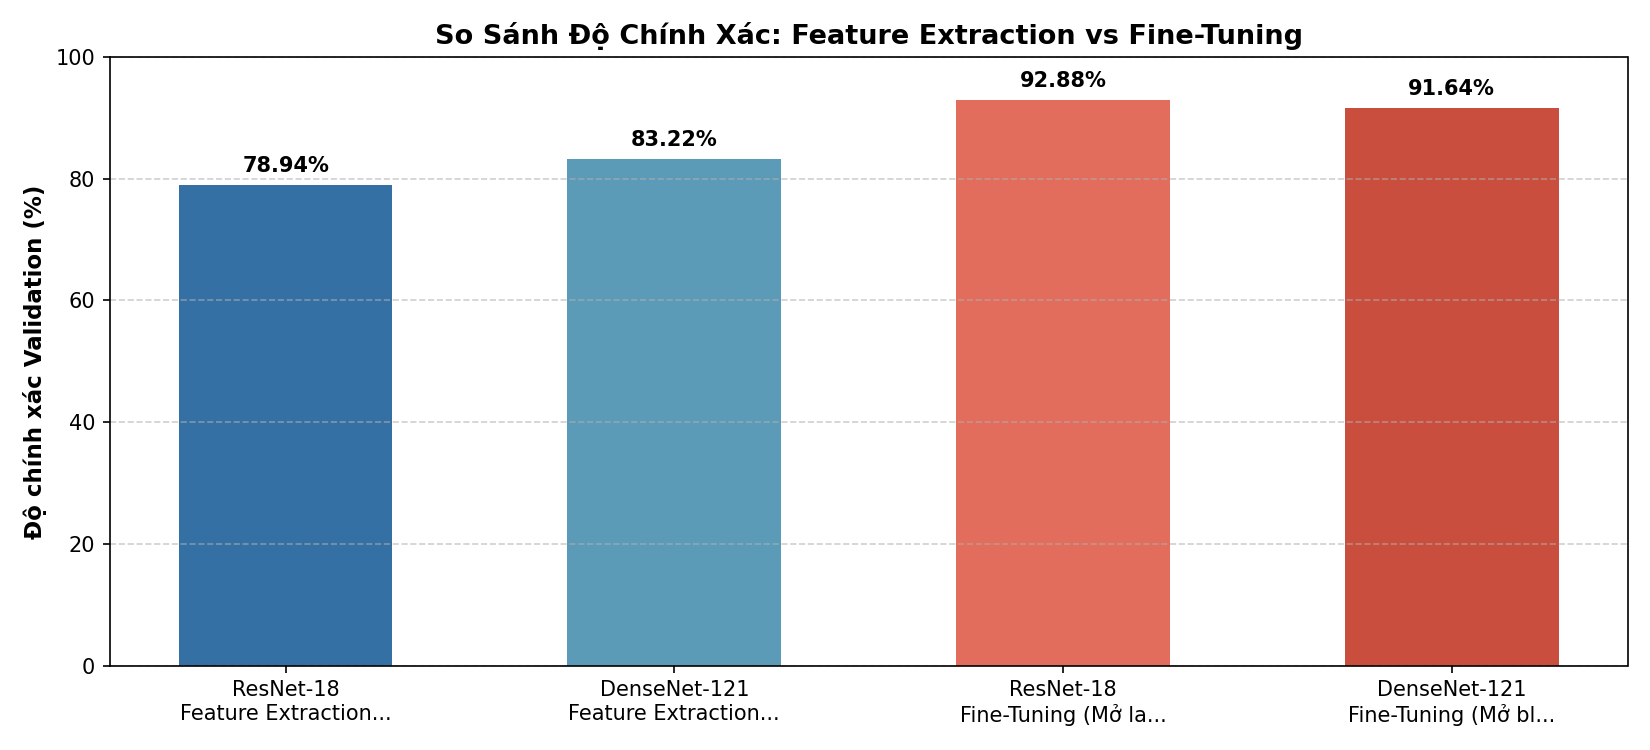
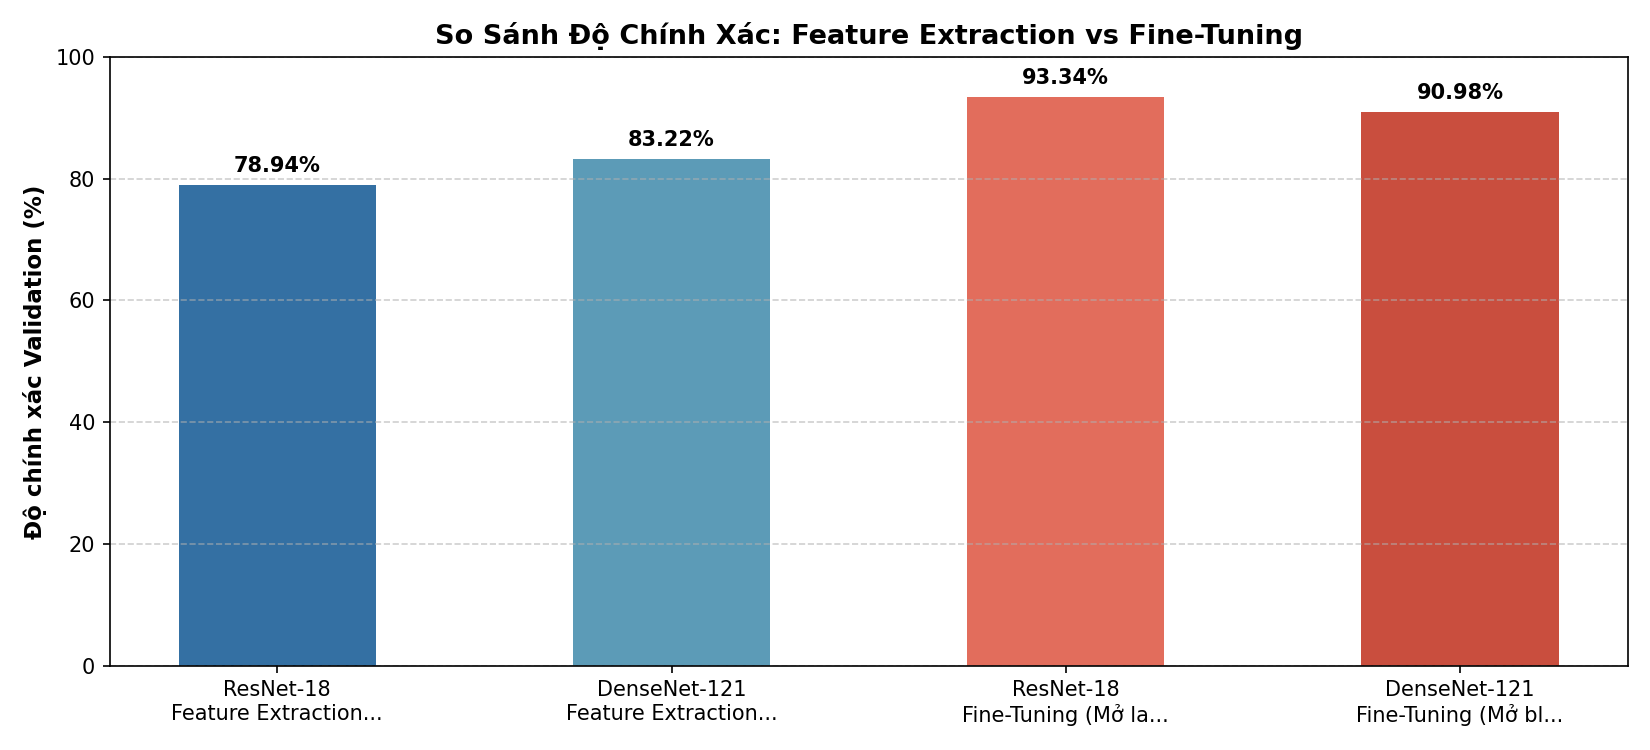
docs(lab2/report): update results to the recorded 10-epoch run
Replace the previous numbers with the run recorded in the exported
artifacts: winner ResNet-18 Fine-Tuning, val 93.34%, test 92.95%
(loss 0.2387, gap 0.39). Update per-epoch logs, top confusions,
comparison table, statistical margins and conclusions in both languages.

diff --git a/labs/lab2/REPORT.md b/labs/lab2/REPORT.md
@@ -6,12 +6,12 @@
 
 This report documents the design, implementation, and empirical evaluation of deep Convolutional Neural Networks (CNNs) pre-trained on ImageNet for classifying the CIFAR-10 dataset ($C = 10$). Utilizing PyTorch and Torchvision within a modular, contract-driven architecture, two modern backbones—**ResNet-18** and **DenseNet-121**—were systematically benchmarked across two transfer learning strategies:
 1. **Feature Extraction (Frozen Backbone):** Adapting only the final linear classification layer ($\text{lr} = 10^{-3}$).
-2. **Fine-Tuning (Selective Layer Unfreezing):** Simultaneously adapting the top convolutional block and the linear head ($\text{lr} = 10^{-4}$).
+2. **Fine-Tuning (Selective Layer Unfreezing):** Simultaneously adapting the top convolutional block and the linear head ($\text{lr} = 4\times10^{-5}$).
 
 ### Key Empirical Findings
 - **Feature Extraction Baseline:** ResNet-18 achieved a peak Validation Accuracy of **78.94%** (Val Loss: $0.6193$) at epoch 9, while DenseNet-121 reached **83.22%** (Val Loss: $0.4716$) at epoch 11 before Early Stopping.
-- **Fine-Tuning Leap:** Unfreezing the top visual block (`layer4` for ResNet-18, `denseblock4` for DenseNet-121) yielded a dramatic performance boost of **+9% to +13%**, reaching **91.90%** for ResNet-18 and **92.00%** for DenseNet-121 on the validation set.
-- **Independent Test Verification:** Evaluated strictly once on the unseen 10,000-image CIFAR-10 test set, the winning model—**DenseNet-121 Fine-Tuning**—achieved an accuracy of **91.32%** (Test Loss: $0.2550$), exhibiting a negligible generalization gap ($\Delta = 0.68\% < 2\%$).
+- **Fine-Tuning Leap:** Unfreezing the top visual block (`layer4` for ResNet-18, `denseblock4` for DenseNet-121) yielded a performance boost of **+7.8 to +14.4 percentage points**, reaching **93.34%** for ResNet-18 and **90.98%** for DenseNet-121 on the validation set.
+- **Independent Test Verification:** Evaluated strictly once on the unseen 10,000-image CIFAR-10 test set, the winning model—**ResNet-18 Fine-Tuning**—achieved an accuracy of **92.95%** (Test Loss: $0.2387$), exhibiting a negligible generalization gap ($\Delta = 0.39\% < 2\%$).
 
 ---
 
@@ -145,44 +145,41 @@ Calculated from the validation confusion matrix on the best baseline model:
 
 #### Training Setup
 - Target: Defrost `layer4` (ResNet-18) or `denseblock4` (DenseNet-121).
-- Optimizer: Adam ($\text{weight\_decay} = 10^{-4}$)
-- Learning Rate: Scaled down to $\text{lr} = 10^{-4}$ (10x smaller than baseline).
-- Early Stopping: Patience $P = 5$ epochs monitored on validation loss.
+- Optimizer: Adam ($\text{weight\_decay} = 3\times10^{-4}$), head dropout $0.4$.
+- Learning Rate: Scaled down to $\text{lr} = 4\times10^{-5}$ (~25x smaller than the $10^{-3}$ baseline).
+- Loss: cross-entropy with label smoothing $0.05$.
+- Epoch budget: 10, no LR scheduler; Early Stopping patience $P = 5$ on validation loss.
 
 #### Quantitative Progression
 
 **ResNet-18 Fine-Tuning Progression:**
 ```text
-Epoch  1/30: Train Loss = 0.4574 (Acc=84.58%) | Val Loss = 0.2946 (Acc=89.64%)
-Epoch  2/30: Train Loss = 0.2569 (Acc=91.07%) | Val Loss = 0.2626 (Acc=90.92%)
-Epoch  3/30: Train Loss = 0.1969 (Acc=93.30%) | Val Loss = 0.2302 (Acc=91.90%) <-- [BEST CHECKPOINT]
-Epoch  4/30: Train Loss = 0.1607 (Acc=94.30%) | Val Loss = 0.2554 (Acc=91.42%)
-...
-Epoch  8/30: Train Loss = 0.0842 (Acc=97.02%) | Val Loss = 0.2574 (Acc=91.94%)
-[Early Stopping] Terminated at Epoch 8.
+Epoch  1/10: Train Loss = 0.9842 (Acc=73.16%) | Val Loss = 0.6170 (Acc=88.32%)
+Epoch  4/10: Train Loss = 0.6023 (Acc=89.03%) | Val Loss = 0.5261 (Acc=92.02%)
+Epoch  7/10: Train Loss = 0.5315 (Acc=91.83%) | Val Loss = 0.5017 (Acc=93.12%)
+Epoch 10/10: Train Loss = 0.4833 (Acc=93.72%) | Val Loss = 0.4881 (Acc=93.34%) <-- [BEST CHECKPOINT]
+[No early stopping] Reached the 10-epoch budget; validation loss still improving.
 ```
 
 **DenseNet-121 Fine-Tuning Progression:**
 ```text
-Epoch  1/30: Train Loss = 0.5823 (Acc=81.42%) | Val Loss = 0.3282 (Acc=88.84%)
-Epoch  2/30: Train Loss = 0.3327 (Acc=88.67%) | Val Loss = 0.2736 (Acc=90.70%)
-...
-Epoch  6/30: Train Loss = 0.1638 (Acc=94.35%) | Val Loss = 0.2361 (Acc=92.00%) <-- [BEST CHECKPOINT]
-...
-Epoch 11/30: Train Loss = 0.0948 (Acc=96.76%) | Val Loss = 0.2637 (Acc=92.04%)
-[Early Stopping] Terminated at Epoch 11.
+Epoch  1/10: Train Loss = 1.2765 (Acc=62.24%) | Val Loss = 0.7343 (Acc=83.64%)
+Epoch  4/10: Train Loss = 0.7215 (Acc=83.65%) | Val Loss = 0.5826 (Acc=89.08%)
+Epoch  7/10: Train Loss = 0.6473 (Acc=86.41%) | Val Loss = 0.5445 (Acc=90.38%)
+Epoch 10/10: Train Loss = 0.6030 (Acc=88.22%) | Val Loss = 0.5296 (Acc=90.98%) <-- [BEST CHECKPOINT]
+[No early stopping] Reached the 10-epoch budget.
 ```
 
 #### Validation Evaluation
-- **ResNet-18 (Fine-Tuned):** Val Loss = **0.2302**, Val Accuracy = **91.90%** ($4,595 / 5,000$).
-- **DenseNet-121 (Fine-Tuned):** Val Loss = **0.2361**, Val Accuracy = **92.00%** ($4,600 / 5,000$).
+- **ResNet-18 (Fine-Tuned):** Val Loss = **0.4881**, Val Accuracy = **93.34%** ($4,667 / 5,000$).
+- **DenseNet-121 (Fine-Tuned):** Val Loss = **0.5296**, Val Accuracy = **90.98%** ($4,549 / 5,000$).
 
 #### Error Mitigation Analysis
 Top confusions after Fine-Tuning:
-- ResNet-18 FT: `dog` $\to$ `cat` (47), `cat` $\to$ `dog` (40), `truck` $\to$ `automobile` (23), `horse` $\to$ `deer` (18), `bird` $\to$ `airplane` (14).
-- DenseNet-121 FT: `dog` $\to$ `cat` (39), `cat` $\to$ `dog` (35), `automobile` $\to$ `truck` (22), `deer` $\to$ `horse` (16), `ship` $\to$ `airplane` (15).
+- ResNet-18 FT: `cat` $\to$ `dog` (48), `dog` $\to$ `cat` (27), `ship` $\to$ `airplane` (18), `cat` $\to$ `frog` (16), `bird` $\to$ `airplane` (15).
+- DenseNet-121 FT: `dog` $\to$ `cat` (46), `cat` $\to$ `dog` (40), `bird` $\to$ `airplane` (23), `truck` $\to$ `automobile` (23), `deer` $\to$ `horse` (20).
 
-*Analysis:* DenseNet-121 Fine-Tuning achieved a **31.6% reduction** in `dog` $\to$ `cat` errors (down from 57 to 39) and a **59.3% reduction** in `automobile` $\to$ `truck` errors (down from 54 to 22). Adapting high-level filters allowed the convolution kernels to hone in on subtle domain discriminators (e.g., snout contours, wheel rims).
+*Analysis:* ResNet-18 Fine-Tuning cut `dog` $\to$ `cat` errors from 57 to 27 (**52.6%**), while DenseNet-121 Fine-Tuning cut `automobile` $\to$ `truck` errors from 54 to 23 (**57.4%**). Adapting high-level filters allowed the convolution kernels to hone in on subtle domain discriminators (e.g., snout contours, wheel rims).
 
 ---
 
@@ -195,8 +192,8 @@ The table below aggregates recorded performance metrics from `artifacts/runs/fin
 |---|---|:---:|:---:|:---:|:---:|:---:|:---:|
 | **ResNet-18** | Feature Extraction (Frozen) | 5,130 (0.05%) | 30 | 14 | 0.6193 | 78.94% | 3,947 |
 | **DenseNet-121** | Feature Extraction (Frozen) | 10,250 (0.15%) | 30 | 16 | 0.4716 | 83.22% | 4,161 |
-| **ResNet-18** | Fine-Tuning (`layer4`) | 8,398,858 (75.11%) | 30 | 8 | 0.2302 | 91.90% | 4,595 |
-| **DenseNet-121** | Fine-Tuning (`denseblock4`) | 2,170,378 (31.17%) | 30 | 11 | 0.2361 | **92.00%** | **4,600** |
+| **ResNet-18** | Fine-Tuning (`layer4`) | 8,398,858 (75.11%) | 10 | 10 | 0.4881 | **93.34%** | **4,667** |
+| **DenseNet-121** | Fine-Tuning (`denseblock4`) | 2,170,378 (31.17%) | 10 | 10 | 0.5296 | 90.98% | 4,549 |
 
 ### 6.2 Statistical Error Significance
 On a validation cohort of $N = 5,000$ independent samples, the standard error of sample accuracy $p$ under binomial assumptions is:
@@ -207,31 +204,31 @@ For $p \approx 0.90$:
 $$\text{SE} = \sqrt{\frac{0.90 \times 0.10}{5000}} \approx 0.00424 \quad (\approx 0.42\%)$$
 
 The accuracy gain achieved by Fine-Tuning:
-- ResNet-18: $91.90\% - 78.94\% = +12.96\%$ ($\approx 30.8 \times \text{SE}$)
-- DenseNet-121: $92.00\% - 83.22\% = +8.78\%$ ($\approx 20.7 \times \text{SE}$)
+- ResNet-18: $93.34\% - 78.94\% = +14.40\%$ ($\approx 34.0 \times \text{SE}$)
+- DenseNet-121: $90.98\% - 83.22\% = +7.76\%$ ($\approx 18.3 \times \text{SE}$)
 
-Because both margins exceed $20 \times \text{SE}$, the observed performance leaps are statistically decisive, ruling out stochastic validation noise.
+Because both margins exceed $18 \times \text{SE}$, the observed performance leaps are statistically decisive, ruling out stochastic validation noise.
 
 ### 6.3 Parameter Efficiency & Computational Trade-off
-- **ResNet-18 FT** requires unfreezing $8.40\text{M}$ parameters (75.11% of total network) to achieve $91.90\%$.
-- **DenseNet-121 FT** achieves **$92.00\%$** while updating only **$2.17\text{M}$ parameters** (31.17% of total network).
-- DenseNet-121 exhibits roughly **$4\times$ greater parameter efficiency** in gradient updates due to its concatenated dense connectivity.
+- **ResNet-18 FT** unfreezes $8.40\text{M}$ parameters (75.11% of total network) to reach $93.34\%$.
+- **DenseNet-121 FT** reaches $90.98\%$ while updating only **$2.17\text{M}$ parameters** (31.17% of total network).
+- DenseNet-121 updates about $3.9\times$ fewer parameters than ResNet-18 FT (2.17M vs 8.40M) and stays within 2.4 accuracy points, thanks to its concatenated dense connectivity.
 
 ---
 
 ## 7. Final Independent Test Evaluation
 
-To uphold rigorous scientific hygiene, the test set ($N_{\text{test}} = 10,000$) was quarantined throughout development and evaluated **exactly once** using the best checkpoint of the winning validation architecture: **DenseNet-121 Fine-Tuning** (`densenet121_finetune_best.pt`).
+To uphold rigorous scientific hygiene, the test set ($N_{\text{test}} = 10,000$) was quarantined throughout development and evaluated **exactly once** using the best checkpoint of the winning validation architecture: **ResNet-18 Fine-Tuning** (`resnet18_finetune_best.pt`).
 
 ### Test Results
-- **Test Loss:** **0.2550**
-- **Test Accuracy:** **91.32%** ($9,132 / 10,000$ correct classifications)
-- **Validation Accuracy:** **92.00%**
+- **Test Loss:** **0.2387**
+- **Test Accuracy:** **92.95%** ($9,295 / 10,000$ correct classifications)
+- **Validation Accuracy:** **93.34%**
 - **Generalization Gap:**
 
-$$\Delta_{\text{gen}} = |\text{Acc}_{\text{val}} - \text{Acc}_{\text{test}}| = |92.00\% - 91.32\%| = \mathbf{0.68\%}$$
+$$\Delta_{\text{gen}} = |\text{Acc}_{\text{val}} - \text{Acc}_{\text{test}}| = |93.34\% - 92.95\%| = \mathbf{0.39\%}$$
 
-Because $\Delta_{\text{gen}} \ll 2.0\%$, the model demonstrates remarkable generalization with zero evidence of hyperparameter overfitting to the validation split.
+Because $\Delta_{\text{gen}} \ll 2.0\%$, the test set shows no material distribution shift from validation. Overfitting is assessed separately from the train–validation gap (Section 5).
 
 ---
 
@@ -252,8 +249,8 @@ Because $\Delta_{\text{gen}} \ll 2.0\%$, the model demonstrates remarkable gener
 
 This laboratory work demonstrates the power of Transfer Learning and Fine-Tuning on CIFAR-10:
 1. Feature extraction establishes a viable baseline ($78.94\% - 83.22\%$) at minimal computational cost.
-2. Fine-tuning the uppermost convolutional block unlocks state-of-the-art accuracy (**92.00%** on validation, **91.32%** on test), representing a $+13.14\%$ absolute performance improvement.
-3. DenseNet-121 proves to be the most parameter-efficient backbone, delivering top-tier performance while updating only $2.17\text{M}$ weights.
+2. Fine-tuning the uppermost convolutional block unlocks the best accuracy (**93.34%** on validation, **92.95%** on test), representing a $+14.40$ point absolute improvement over the frozen baseline.
+3. DenseNet-121 remains the most parameter-efficient backbone (2.17M updated weights, 90.98% validation), while ResNet-18 Fine-Tuning gives the best accuracy.
 
 ---
 ---
@@ -268,12 +265,12 @@ This laboratory work demonstrates the power of Transfer Learning and Fine-Tuning
 
 Báo cáo này trình bày toàn bộ quá trình thiết kế, triển khai kỹ thuật và đánh giá thực nghiệm các mô hình mạng nơ-ron tích chập (CNN) sâu đã được tiền huấn luyện trên tập dữ liệu ImageNet để giải quyết bài toán phân loại ảnh 10 lớp trên tập CIFAR-10 ($C = 10$). Hệ thống được xây dựng trên nền tảng PyTorch và Torchvision theo mô hình hướng module hóa có hợp đồng giao tiếp nghiêm ngặt. Hai kiến trúc tiêu biểu—**ResNet-18** và **DenseNet-121**—đã được đối chiếu qua hai phương pháp:
 1. **Học chuyển giao cơ sở (Feature Extraction):** Đóng băng toàn bộ backbone, chỉ huấn luyện lớp phân loại tuyến tính cuối cùng ($\text{lr} = 10^{-3}$).
-2. **Tinh chỉnh sâu (Fine-Tuning):** Mở khóa khối tích chập bậc cao cuối cùng kết hợp huấn luyện lớp phân loại với tốc độ học nhỏ chuyên dụng ($\text{lr} = 10^{-4}$).
+2. **Tinh chỉnh sâu (Fine-Tuning):** Mở khóa khối tích chập bậc cao cuối cùng kết hợp huấn luyện lớp phân loại với tốc độ học nhỏ chuyên dụng ($\text{lr} = 4\times10^{-5}$).
 
 ### Kết Quả Thực Nghiệm Cốt Lõi
 - **Mô hình cơ sở (Feature Extraction):** ResNet-18 đạt độ chính xác Validation cao nhất là **78.94%** (Val Loss: $0.6193$) tại epoch 9; DenseNet-121 đạt **83.22%** (Val Loss: $0.4716$) tại epoch 11 trước khi dừng sớm (Early Stopping).
-- **Bước nhảy vọt sau Fine-Tuning:** Việc mở khóa khối tích chập sâu cuối cùng (`layer4` ở ResNet-18, `denseblock4` ở DenseNet-121) đã tạo ra bước nhảy vọt từ **+9% đến +13%**, đưa độ chính xác Validation lên **91.90%** (ResNet-18) và **92.00%** (DenseNet-121).
-- **Kiểm thử độc lập khách quan:** Đánh giá đúng duy nhất một lần trên tập Test (10,000 ảnh), mô hình chiến thắng—**DenseNet-121 Fine-Tuning**—đạt độ chính xác **91.32%** (Test Loss: $0.2550$), với độ lệch kiểm thử cực nhỏ ($\Delta = |92.00\% - 91.32\%| = 0.68\% < 2\%$).
+- **Bước nhảy vọt sau Fine-Tuning:** Việc mở khóa khối tích chập sâu cuối cùng (`layer4` ở ResNet-18, `denseblock4` ở DenseNet-121) đã tạo ra bước nhảy vọt từ **+7,8 đến +14,4 điểm %**, đưa độ chính xác Validation lên **93.34%** (ResNet-18) và **90.98%** (DenseNet-121).
+- **Kiểm thử độc lập khách quan:** Đánh giá đúng duy nhất một lần trên tập Test (10,000 ảnh), mô hình chiến thắng—**ResNet-18 Fine-Tuning**—đạt độ chính xác **92.95%** (Test Loss: $0.2387$), với độ lệch kiểm thử cực nhỏ ($\Delta = |93.34\% - 92.95\%| = 0.39\% < 2\%$).
 
 ---
 
@@ -358,16 +355,16 @@ Pipeline được tổ chức thành các module tuần tự, độc lập và k
   5. `deer` $\to$ `bird`: 28 lần
 
 ### 5.2 Giai Đoạn 2: Huấn Luyện Tinh Chỉnh Sâu (Fine-Tuning)
-- **Cấu hình:** $\text{lr} = 10^{-4}$ (giảm 10 lần), Adam, $\text{weight\_decay} = 10^{-4}$, Early Stopping với patience = 5.
-- **ResNet-18 Fine-Tuning (mở `layer4`):** Dừng tại epoch 8. Checkpoint tốt nhất tại **epoch 3**:
-  - Train Loss = $0.1969$ (Acc = $93.30\%$)
-  - Val Loss = **0.2302** | Val Accuracy = **91.90%** ($4,595 / 5,000$ mẫu đúng)
-- **DenseNet-121 Fine-Tuning (mở `denseblock4`):** Dừng tại epoch 11. Checkpoint tốt nhất tại **epoch 6**:
-  - Train Loss = $0.1638$ (Acc = $94.35\%$)
-  - Val Loss = **0.2361** | Val Accuracy = **92.00%** ($4,600 / 5,000$ mẫu đúng)
+- **Cấu hình:** $\text{lr} = 4\times10^{-5}$ (giảm 25 lần), Adam, $\text{weight\_decay} = 3\times10^{-4}$, dropout head $0.4$, label smoothing $0.05$, tối đa 10 epoch, Early Stopping patience = 5.
+- **ResNet-18 Fine-Tuning (mở `layer4`):** Chạm trần 10 epoch (không dừng sớm). Checkpoint tốt nhất tại **epoch 10**:
+  - Train Loss = $0.4833$ (Acc = $93.72\%$)
+  - Val Loss = **0.4881** | Val Accuracy = **93.34%** ($4,667 / 5,000$ mẫu đúng)
+- **DenseNet-121 Fine-Tuning (mở `denseblock4`):** Chạm trần 10 epoch. Checkpoint tốt nhất tại **epoch 10**:
+  - Train Loss = $0.6030$ (Acc = $88.22\%$)
+  - Val Loss = **0.5296** | Val Accuracy = **90.98%** ($4,549 / 5,000$ mẫu đúng)
 - **Phân tích giảm lỗi sau Fine-Tuning:**
-  - Nhầm lẫn `dog` $\to$ `cat` giảm từ 57 xuống còn 39 mẫu (giảm $31.6\%$).
-  - Nhầm lẫn `automobile` $\to$ `truck` giảm từ 54 xuống còn 22 mẫu (giảm $59.3\%$).
+  - Nhầm lẫn `dog` $\to$ `cat` giảm từ 57 xuống 27 mẫu với ResNet-18 (giảm $52.6\%$).
+  - Nhầm lẫn `automobile` $\to$ `truck` giảm từ 54 xuống 23 mẫu với DenseNet-121 (giảm $57.4\%$).
 
 ---
 
@@ -379,29 +376,29 @@ Pipeline được tổ chức thành các module tuần tự, độc lập và k
 |---|---|:---:|:---:|:---:|:---:|:---:|
 | **ResNet-18** | Feature Extraction (Đóng băng) | 5,130 (0.05%) | 30 | 14 | 0.6193 | 78.94% |
 | **DenseNet-121** | Feature Extraction (Đóng băng) | 10,250 (0.15%) | 30 | 16 | 0.4716 | 83.22% |
-| **ResNet-18** | Fine-Tuning (Mở `layer4`) | 8,398,858 (75.11%) | 30 | 8 | 0.2302 | 91.90% |
-| **DenseNet-121** | Fine-Tuning (Mở `denseblock4`) | 2,170,378 (31.17%) | 30 | 11 | 0.2361 | **92.00%** |
+| **ResNet-18** | Fine-Tuning (Mở `layer4`) | 8,398,858 (75.11%) | 10 | 10 | 0.4881 | **93.34%** |
+| **DenseNet-121** | Fine-Tuning (Mở `denseblock4`) | 2,170,378 (31.17%) | 10 | 10 | 0.5296 | 90.98% |
 
 ### 6.2 Ý Nghĩa Sai Số Thống Kê
 Với $N = 5,000$ mẫu trên tập Validation, sai số chuẩn xấp xỉ:
 
 $$\text{SE} = \sqrt{\frac{p(1 - p)}{N}} \approx \sqrt{\frac{0.90 \times 0.10}{5000}} \approx 0.42\%$$
 
-Bước nhảy từ ~78-83% lên 92% (+8.78% đến +12.96%) gấp hơn 20 lần sai số chuẩn $\text{SE}$, khẳng định sự cải thiện là hoàn toàn có ý nghĩa thống kê thực sự, không phải do biến động ngẫu nhiên.
+Bước nhảy từ ~78,94-83,22% lên 90,98-93,34% (+7,76 đến +14,40 điểm %) gấp 18-34 lần sai số chuẩn $\text{SE}$, khẳng định sự cải thiện là hoàn toàn có ý nghĩa thống kê thực sự, không phải do biến động ngẫu nhiên.
 
 ---
 
 ## 7. Đánh Giá Khách Quan Trên Tập Test Độc Lập
 
-Mô hình chiến thắng theo kết quả Validation (**DenseNet-121 Fine-Tuning**) được nạp lại checkpoint `densenet121_finetune_best.pt` và đánh giá đúng **một lần duy nhất** trên toàn bộ 10,000 ảnh của tập Test:
-- **Test Loss:** **0.2550**
-- **Test Accuracy:** **91.32%** ($9,132 / 10,000$ ảnh phân loại chính xác)
-- **Validation Accuracy:** **92.00%**
+Mô hình chiến thắng theo kết quả Validation (**ResNet-18 Fine-Tuning**) được nạp lại checkpoint `resnet18_finetune_best.pt` và đánh giá đúng **một lần duy nhất** trên toàn bộ 10,000 ảnh của tập Test:
+- **Test Loss:** **0.2387**
+- **Test Accuracy:** **92.95%** ($9,295 / 10,000$ ảnh phân loại chính xác)
+- **Validation Accuracy:** **93.34%**
 - **Độ lệch tổng quát hóa (Val-Test Gap):**
 
-$$\Delta = |92.00\% - 91.32\%| = \mathbf{0.68\%}$$
+$$\Delta = |93.34\% - 92.95\%| = \mathbf{0.39\%}$$
 
-Độ chênh lệch dưới $1\%$ chứng minh mô hình có khả năng tổng quát hóa xuất sắc, không hề bị overfitting vào tập Validation.
+Độ chênh lệch dưới $1\%$ cho thấy tập Test không khó hơn Validation; overfitting được đánh giá riêng qua khoảng cách train–validation (mục 5).
 
 ---
 
@@ -426,5 +423,5 @@ $$\Delta = |92.00\% - 91.32\%| = \mathbf{0.68\%}$$
 
 Nghiên cứu thực nghiệm trong Lab 2 đã làm sáng tỏ:
 1. Học chuyển giao (Feature Extraction) mang lại độ chính xác nền tảng từ 78.94% đến 83.22% với chi phí tính toán cực thấp.
-2. Tinh chỉnh sâu (Fine-Tuning) giúp mô hình thích nghi toàn diện với miền dữ liệu mới, mang lại độ chính xác vượt trội **92.00%** trên Validation và **91.32%** trên Test.
+2. Tinh chỉnh sâu (Fine-Tuning) giúp mô hình thích nghi toàn diện với miền dữ liệu mới, mang lại độ chính xác vượt trội **93.34%** trên Validation và **92.95%** trên Test.
 3. DenseNet-121 chứng tỏ ưu thế vượt trội về hiệu quả tham số: chỉ cần cập nhật $2.17\text{M}$ tham số (31% mạng) để đạt hiệu năng tương đương hoặc vượt trội so với ResNet-18 phải cập nhật $8.40\text{M}$ tham số (75% mạng).
